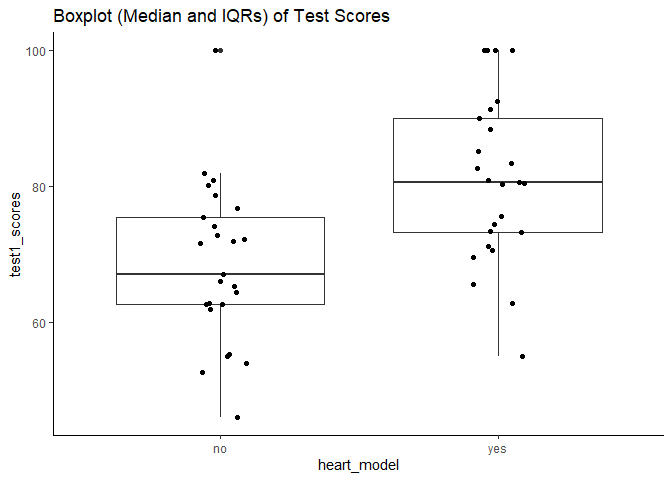
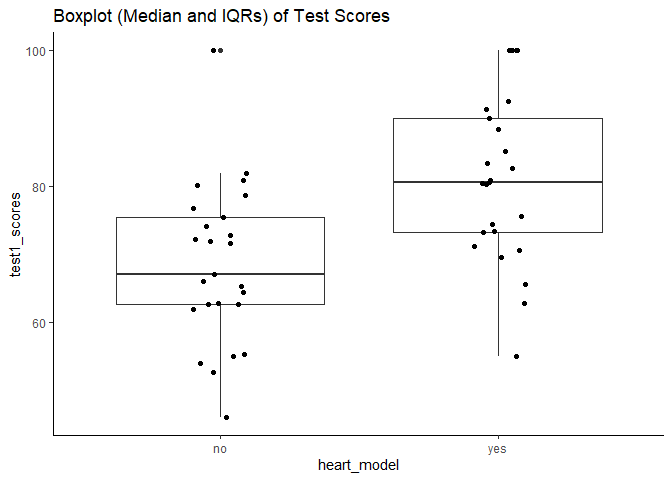
Fixed minor code issue

diff --git a/README.md b/README.md
@@ -75,19 +75,19 @@ df_cor <- df %>%
     ifelse(x > 100, 100, x))) %>% #this will cap scores at 100 if the rnorm function pushes them above 100
   
   mutate(test2_scores = ifelse(heart_model == "yes", 
-                               yes = test1_scores + rnorm(1, -10, 5), #Test scores will only drop by 10 points with the heart model
-                               no = test1_scores + rnorm(1, -20, 5))) #Test scores will drop by 15 points for no heart model
+                               yes = test1_scores + rnorm(25, -10, 5), #Test scores will only drop by 10 points with the heart model
+                               no = test1_scores + rnorm(25, -20, 5))) #Test scores will drop by 15 points for no heart model
 
 head(df_cor)
 ```
 
     ##   student_id heart_model test1_scores test2_scores
     ## 1          1         yes     62.79149     52.57806
-    ## 2          2         yes    100.00000     89.78658
-    ## 3          3         yes     70.64883     60.43541
-    ## 4          4         yes     71.19992     60.98650
-    ## 5          5         yes     55.03537     44.82194
-    ## 6          6         yes     80.91556     70.70213
+    ## 2          2         yes    100.00000     89.43665
+    ## 3          3         yes     70.64883     62.93297
+    ## 4          4         yes     71.19992     71.30160
+    ## 5          5         yes     55.03537     39.78092
+    ## 6          6         yes     80.91556     74.58882
 
 # Plotting the data
 
@@ -171,10 +171,10 @@ df_cor %>%
     ## Warning: Converting "heart_model" to factor for ANOVA.
 
     ## $ANOVA
-    ##             Effect DFn DFd            F            p p<.05       ges
-    ## 2      heart_model   1  48 2.754651e+01 3.441394e-06     * 0.3646298
-    ## 3             test   1  48 3.124405e+17 0.000000e+00     * 0.3005450
-    ## 4 heart_model:test   1  48 3.533424e+16 0.000000e+00     * 0.0463416
+    ##             Effect DFn DFd         F            p p<.05        ges
+    ## 2      heart_model   1  48  29.76708 1.679645e-06     * 0.37550009
+    ## 3             test   1  48 592.02132 1.192361e-28     * 0.27284414
+    ## 4 heart_model:test   1  48  95.70919 5.166872e-13     * 0.05719093
 
 ## Consider the Results
 
@@ -253,16 +253,16 @@ no
 test2\_scores
 </td>
 <td style="text-align:right;">
-47.93097
+48.02817
 </td>
 <td style="text-align:right;">
-11.67543
+11.40422
 </td>
 <td style="text-align:right;">
-53.93438
+46.91777
 </td>
 <td style="text-align:right;">
-79.43665
+73.62970
 </td>
 </tr>
 <tr>
@@ -293,16 +293,16 @@ yes
 test2\_scores
 </td>
 <td style="text-align:right;">
-70.89000
+72.37550
 </td>
 <td style="text-align:right;">
-12.27680
+13.20723
 </td>
 <td style="text-align:right;">
-44.96463
+59.98961
 </td>
 <td style="text-align:right;">
-89.78658
+99.77053
 </td>
 </tr>
 </tbody>
